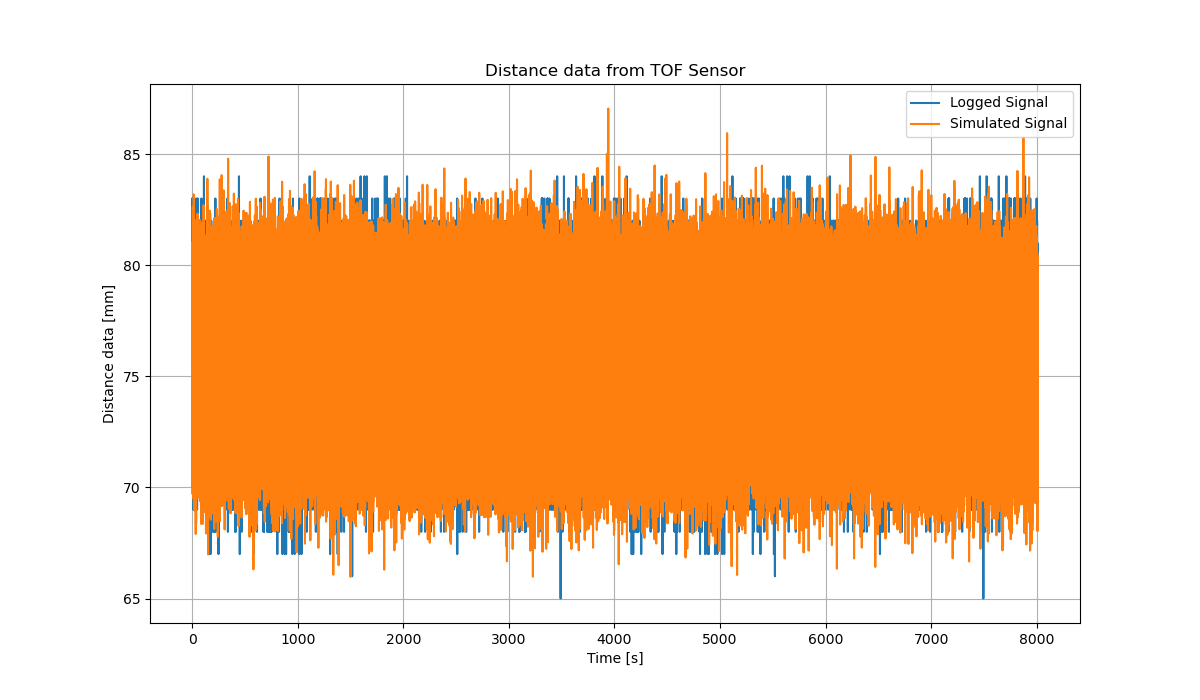
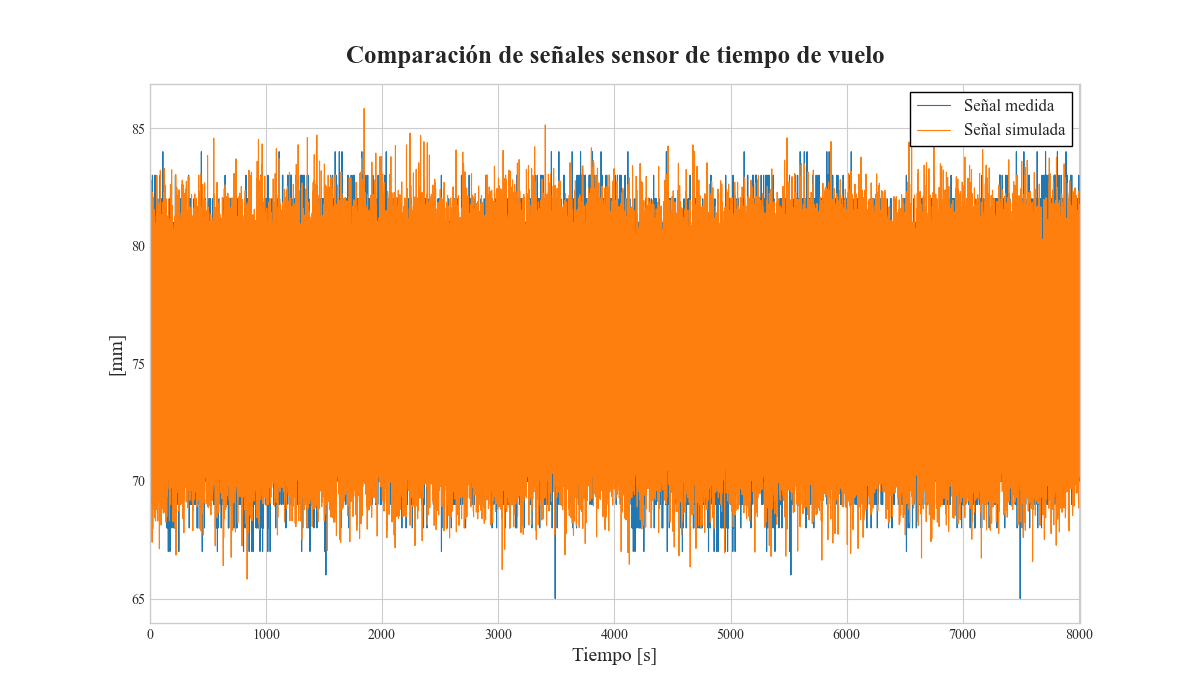
Plots update.

diff --git a/TimeOfFlightCalibrationModules/tof_distance_calibration.py b/TimeOfFlightCalibrationModules/tof_distance_calibration.py
@@ -118,37 +118,44 @@ def compute_allan_variance(
 def auto_estimate_R_q_from_allan(
     tau: np.ndarray, 
     sigma: np.ndarray, 
-    fs: np.float,
+    fs: float,
     slope_tol: float=0.1, 
-    min_points: int=3,
-    plot: bool=False
+    min_points: int=4,
+    plot: bool=False,
+    u: Optional[str] = None,
+    title: Optional[str] = None,
+    spanish: bool=False
 ) -> Tuple[float, float, Tuple[int, int], Tuple[int, int]]:
     """
     Automatically estimate R and q from Allan deviation curve.
     It is assumed the standard 1-state random–walk + white-noise measurement model
-    for the altimeter signal.
+    for a sensor signal.
 
     d_k = p_k + b_k + v_k ,    v_k ~ N(0, R)
     b_{k+1} = b_k + w_k ,      w_k ~ N(0, q·T_s)
 
     where:
-        - d_k = barometer measurement (altitude)
-        - p_k = true altitude
-        - R   = white measurement–noise variance [m²]
+        - d_k = sensor measurement 
+        - p_k = true measurement
+        - R   = white measurement–noise variance [u²]
         - b_k = barometer bias at step k
-        - q   = bias random–walk intensity [m²/s]
+        - q   = bias random–walk intensity [u²/s]
         - T_s = sampling time [s]
 
     Args:
         tau: Array of interval lengths in seconds.
-        sigma: Array of corresponding Allan Deviation values [m].
+        sigma: Array of corresponding Allan Deviation values [u].
         fs: Sampling frecuency [Hz].
         slope_tol: Allowed deviation from ideal slopes (-0.5, +0.5).
         min_points: Minimum number of consecutive points to accept a region.
+        plot: Plot flag.
+        u: Plot units.
+        title: Plot title.
+        spanish: Spanish comments.
 
     Returns:
-        R: Measurement noise variance [m^2].
-        q: Random walk intensity [m^2/s].
+        R: Measurement noise variance [u^2].
+        q: Random walk intensity [u^2/s].
         tau_white_region: (min_tau, max_tau) used for white noise fit.
         tau_rw_region: (min_tau, max_tau) used for random walk fit.
     """
@@ -214,10 +221,16 @@ def auto_estimate_R_q_from_allan(
         q, tau_rw = np.nan, None
 
     if plot:
+        if spanish:
+            plot_legend = ["Desviación de Allan de la medición del sensor","Pendiente Ruido Blanco Gaussiano","Pendiente Deriva Aleatoria del Sesgo"]
+            plot_xlabel = "Duración del intervalo [s]"
+            plot_ylabel = f"Desviación de Allan de la señal del sensor [{u}]"
+        else:   
+            plot_legend = ["Sensor measurement Allan Dev.","White-Gaussian Noise slope","Random-Walk bias slope"]
+            plot_xlabel = "Interval Length [s]"
+            plot_ylabel = f"Sensor signal Allan deviation [{u}]"
         utils.show_loglog_data(tau, np.vstack([sigma,np.sqrt(R/fs)/np.sqrt(tau),np.sqrt(q/3)*np.sqrt(tau)]).T, 
-                               legend=["Relative altitude Allan Dev.","White-Gaussian Noise","Random-Walk bias"],
-                               xlabel="Interval Length [s]", ylabel="Allan Deviation [m]",
-                               title="Altitude signal Allan Deviation")
+                               legend=plot_legend, xlabel=plot_xlabel, ylabel=plot_ylabel, title=title)
 
     return R, q, tau_white, tau_rw
 

diff --git a/CalibrationTests/test_signal_characterization.py b/CalibrationTests/test_signal_characterization.py
@@ -8,6 +8,8 @@ import numpy as np
 from TimeOfFlightCalibrationModules import tof_distance_calibration as tof
 from TimeOfFlightCalibrationModules.utils import extract_tof_distance_data, show_time_data
 
+spanish = True
+
 # Use synthetic data
 synthetic = False
 
@@ -26,11 +28,6 @@ else:
     tof_data = tof.simulate_sensor_data(60000,sampling_freq, R_real, q_real)
 tof_data = np.hstack([tof_data, tof_data])
 n_samples = tof_data.shape[0]
-print(f"Number of samples in the file: {n_samples}")
-
-
-# Recorded data
-show_time_data(tof_data, sampling_freq, ["Distance [mm]"])
 
 time_vector = np.arange(0, n_samples, 1) / sampling_freq
 
@@ -39,11 +36,21 @@ tau, avar = tof.compute_allan_variance(tof_data, sampling_freq, m_steps='exponen
 dist_a_dev = np.sqrt(avar).reshape(-1)
 
 # Estimate R and q values
-R, q, tauwn, taurw = tof.auto_estimate_R_q_from_allan(tau, dist_a_dev, sampling_freq, plot=True)
+if spanish:
+    plot_title = "Desviación de Allan del sensor de tiempo de vuelo"
+else:
+    plot_title = "Allan Deviation of Time of Flight sensor"
+R, q, tauwn, taurw = tof.auto_estimate_R_q_from_allan(tau, dist_a_dev, sampling_freq, plot=True, u='mm', title=plot_title, spanish=spanish)
 
 # Show results
-print(f"TOF distance sensor white measurement–noise variance [mm²]: {R}")
-print(f"TOF distance sensor bias random–walk intensity [mm²/s]: {q}")
+if spanish:
+    print(f">>> Número de muestras en el archivo: {n_samples}")
+    print(f">>> Varianza del ruido blanco gaussiano de medición del sensor [mm²]: {R}")
+    print(f">>> Intensidad de la caminata aleatoria del sesgo del sensor [mm²/s]: {q}")
+else:
+    print(f">>> Number of samples in the file: {n_samples}")
+    print(f">>> TOF distance sensor white measurement–noise variance [mm²]: {R}")
+    print(f">>> TOF distance sensor bias random–walk intensity [mm²/s]: {q}")
 
 # Save data if required
 if save:
@@ -51,6 +58,17 @@ if save:
 
 # Show time data and simulated data.
 sim_data = tof.simulate_sensor_data(n_samples, sampling_freq, R, q, np.mean(tof_data))
-show_time_data(np.vstack([tof_data, sim_data]).T, sampling_freq, ["Logged Signal", "Simulated Signal"])
+if spanish:
+    plot_title_1 = "Comparación de señales sensor de tiempo de vuelo"
+    plot_xlabel = "Tiempo [s]"
+    plot_ylabel = "[mm]"
+    plot_legend = ["Señal medida", "Señal simulada"]
+else:
+    plot_title_1 = "Time of Flight Sensor signal comparison"
+    plot_xlabel = "Time [s]"
+    plot_ylabel = "[mm]"
+    plot_legend = ["Logged Signal", "Simulated Signal"]
+show_time_data(np.vstack([tof_data, sim_data]).T, sampling_freq, legend=plot_legend, 
+               title=plot_title_1, xlabel=plot_xlabel, ylabel=plot_ylabel)
 
 

diff --git a/TimeOfFlightCalibrationModules/utils.py b/TimeOfFlightCalibrationModules/utils.py
@@ -13,6 +13,9 @@ from typing import Tuple, Union
 import numpy as np
 import matplotlib.pyplot as plt
 
+plt.style.use('seaborn-whitegrid')
+plt.rcParams['font.family'] = 'Times New Roman'
+
 def log_data_from_tof_distance_sensor(
     port: str,
     baud_rate: int,
@@ -201,12 +204,26 @@ def show_loglog_data(
     """
 
     # Visualization
-    plt.loglog(x_data, y_data)
-    plt.xlabel(xlabel)
-    plt.ylabel(ylabel)
-    plt.legend(legend)
-    plt.title(title)
-    plt.grid(True, which="both")
+    _, ax1 = plt.subplots(figsize=(12, 7))
+    lines = ax1.loglog(x_data, y_data, linewidth=0.8)
+    for line, label in zip(lines, legend):
+        line.set_label(label)
+    ax1.grid(True)
+    ax1.set_xlabel(xlabel, fontsize=14)
+    ax1.set_ylabel(ylabel, fontsize=14)
+    ax1.set_title(title, fontsize=18, fontweight='bold', pad=15)
+    handles, _ = ax1.get_legend_handles_labels()
+    ax1.legend(
+        handles=handles,
+        fontsize=12,
+        loc="best",
+        frameon=True,        
+        fancybox=False,     
+        framealpha=1.0,      
+        edgecolor='black',  
+        facecolor='white'   
+    )
+
     plt.show()
 
 def show_time_data(
@@ -214,11 +231,11 @@ def show_time_data(
     fs: Union[int,float], 
     legend: list,
     xlabel: str="Time [s]",
-    ylabel: str="Distance data [mm]",
-    title: str="Distance data from TOF Sensor"
+    ylabel: str="Sensor measurement data [u]",
+    title: str="Sensor data"
 ) -> None:
     """
-    Show distance data from tof distance sensor as a function of time.
+    Show sensor data as a function of time.
 
     Args:
         data: Data array of shape (N,) where N is number of samples.
@@ -236,13 +253,25 @@ def show_time_data(
     # Time vector
     time_vector = np.arange(0, n_samples, 1) / fs
 
-    # Completed barometer data over time
     _, ax1 = plt.subplots(figsize=(12, 7))
-    ax1.plot(time_vector, data)
+    lines = ax1.plot(time_vector, data, linewidth=0.8)
+    for line, label in zip(lines, legend):
+        line.set_label(label)
     ax1.grid(True)
-    ax1.set_xlabel(xlabel)
-    ax1.set_ylabel(ylabel)
-    ax1.set_title(title)
-    ax1.legend(legend)
+    ax1.set_xlabel(xlabel, fontsize=14)
+    ax1.set_xlim(time_vector[0], time_vector[-1])
+    ax1.set_ylabel(ylabel, fontsize=14)
+    ax1.set_title(title, fontsize=18, fontweight='bold', pad=15)
+    handles, _ = ax1.get_legend_handles_labels()
+    ax1.legend(
+        handles=handles,
+        fontsize=12,
+        loc="best",
+        frameon=True,        
+        fancybox=False,     
+        framealpha=1.0,      
+        edgecolor='black',  
+        facecolor='white'   
+    )
 
     plt.show()
